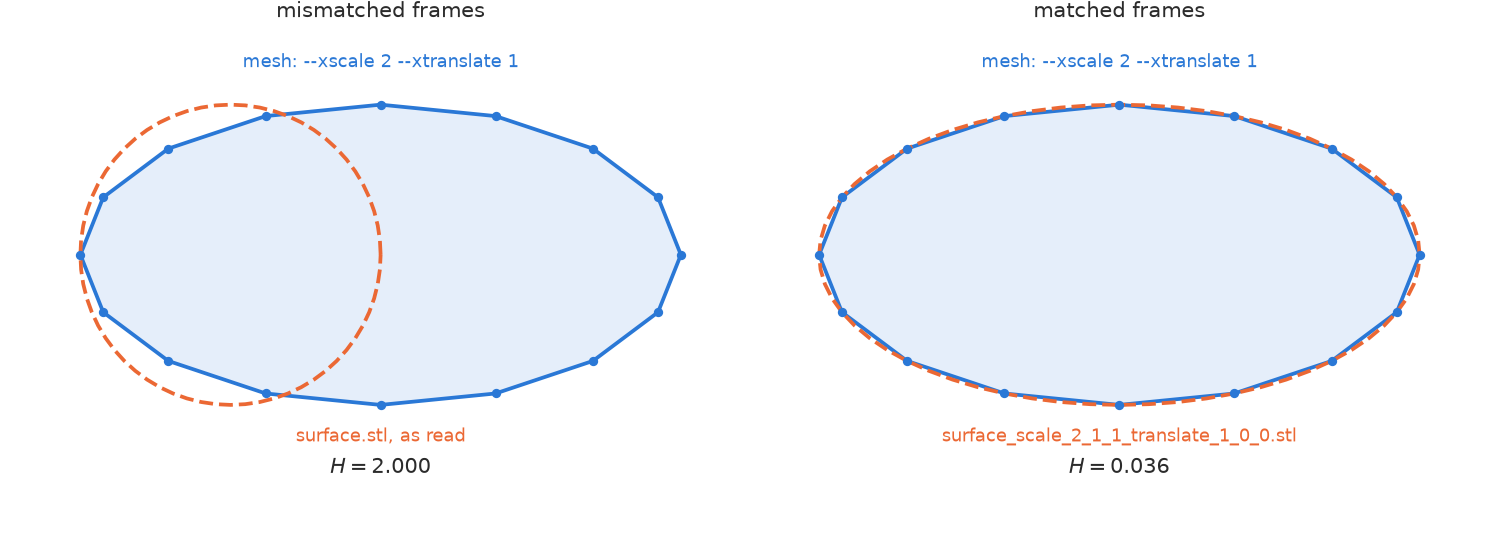
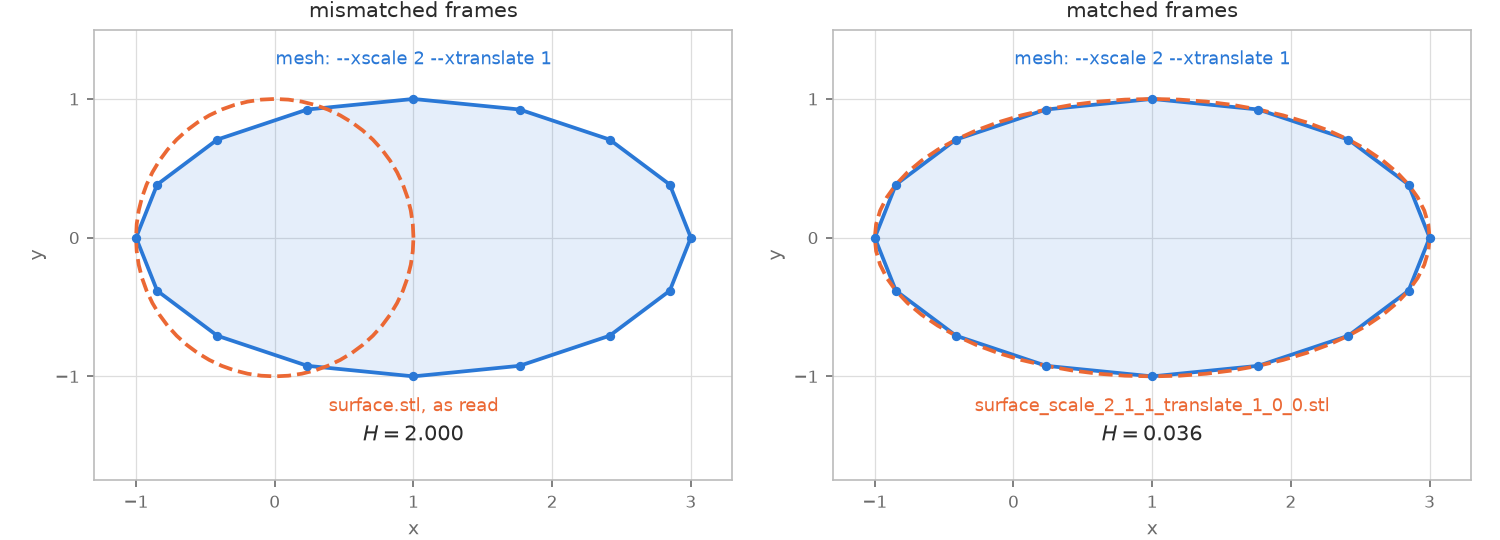
book: draw x and y axes on the frame figure (#761)
Integer ticks and a light grid show the mismatched gap directly: the
mesh reaches x = 3 and the unit circle stops at x = 1, so H = 2.000.

diff --git a/book/theory/hausdorff/hausdorff_diagrams.py b/book/theory/hausdorff/hausdorff_diagrams.py
@@ -298,7 +298,17 @@ def frame_figure():
         note(ax, (1.0, -1.15), label, TESSELLATION, ha="center", va="top")
         ax.set_xlim(-1.3, 3.3)
         ax.set_ylim(-1.75, 1.5)
-        blank(ax, title)
+        ax.set_aspect("equal")
+        ax.set_title(title, fontsize=10, color=INK)
+        ax.set_xticks(range(-1, 4))
+        ax.set_yticks(range(-1, 2))
+        ax.grid(color="#dddddd", linewidth=0.6)
+        ax.set_axisbelow(True)
+        ax.set_xlabel("x", fontsize=9, color=MUTED)
+        ax.set_ylabel("y", fontsize=9, color=MUTED)
+        ax.tick_params(labelsize=8, colors=MUTED)
+        for spine in ax.spines.values():
+            spine.set_color("#bbbbbb")
     figure.tight_layout()
     figure.savefig(HERE / "hausdorff_frame.png", dpi=150)
     print(f"frame: mismatched H = {hausdorff(mesh, raw):.3f}, matched H = {hausdorff(mesh, transformed):.3f}")
